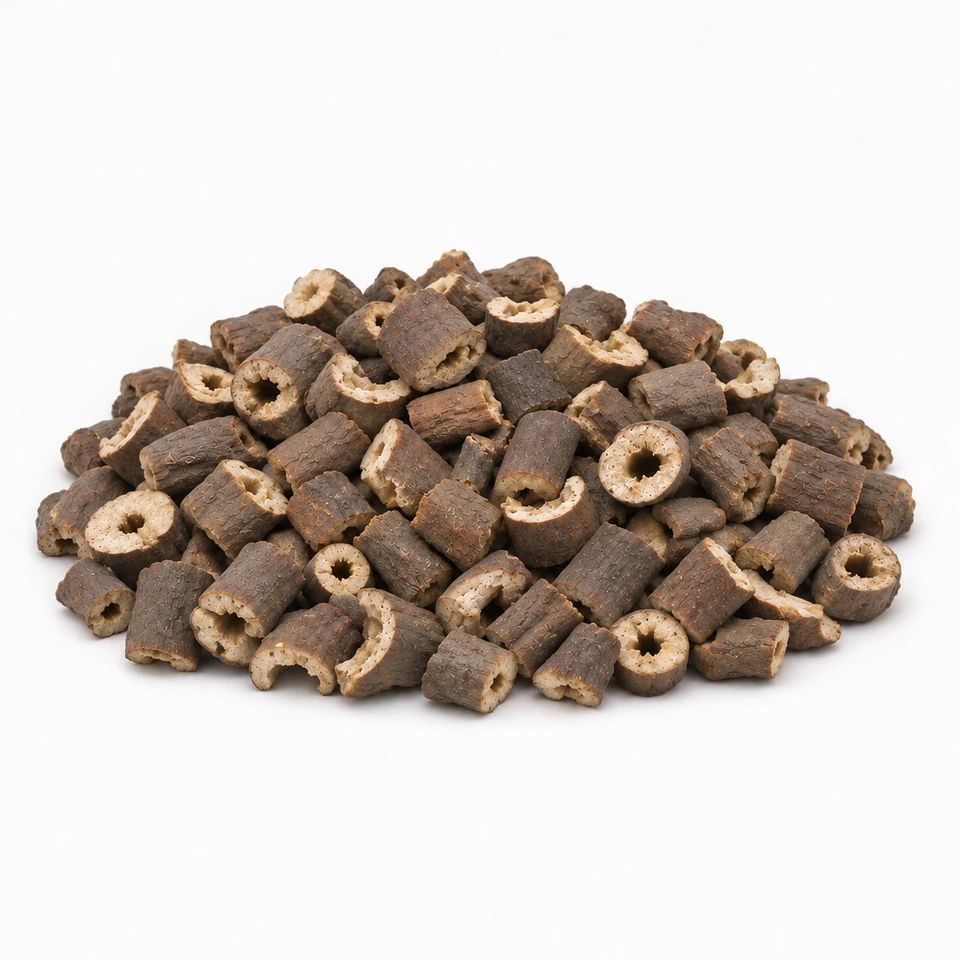
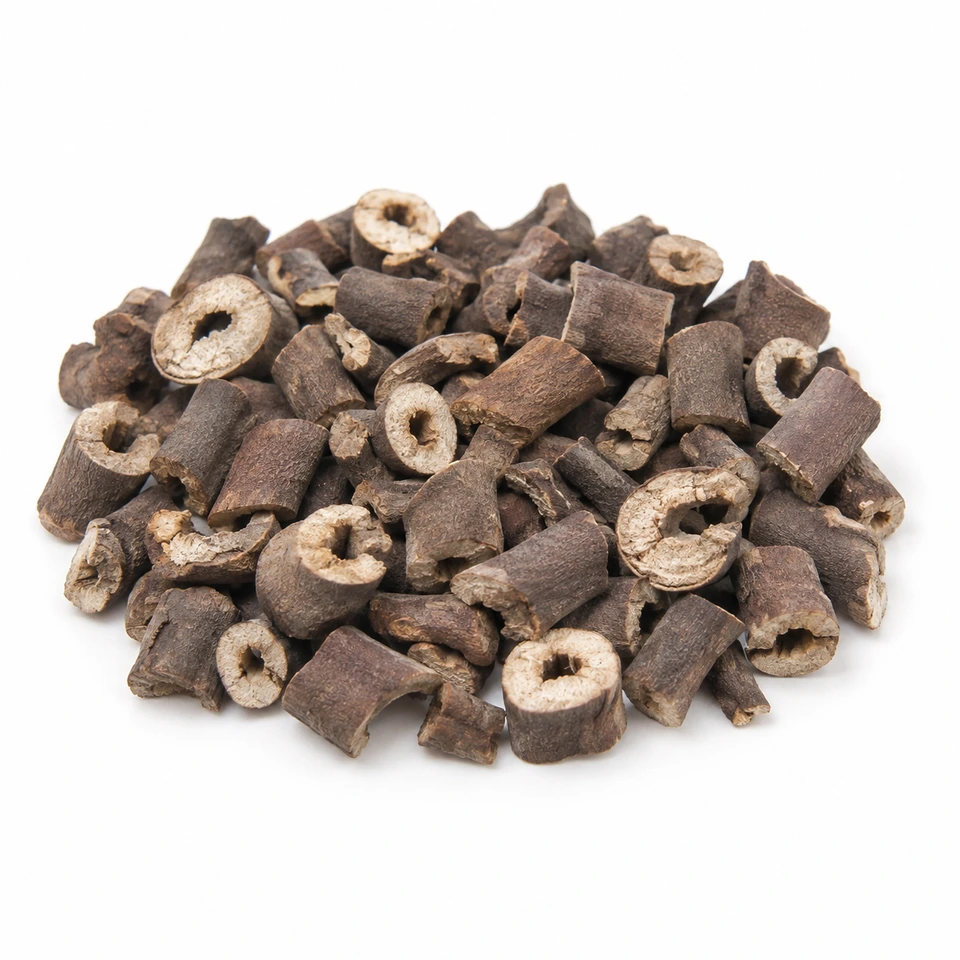
Replace moutan bark AA with approved natural larger-piece photograph

diff --git a/app/ProductImage.js b/app/ProductImage.js
@@ -8,7 +8,7 @@ export default function ProductImage({ src, name, origin }) {
   const visible = Boolean(src) && !failed;
   const reference = src?.startsWith("/products-reference/");
   const localPhoto = reference || src?.startsWith("/products/");
-  const imageSrc = localPhoto ? `${src}${src.includes("?") ? "&" : "?"}photo=${src.split("?")[0] === "/products-reference/uniform-20261029/herb-001.webp" ? "gaja-20261117-v1" : src.split("?")[0] === "/products-reference/uniform-20261029/herb-003-v2.webp" ? "galgeun-20261117-v1" : src.split("?")[0] === "/products-reference/uniform-20261029/herb-004.webp" ? "galhwa-20261118-v1" : src.split("?")[0] === "/products-reference/uniform-20261029/herb-005.webp" ? "gamguk-20261118-v1" : src.split("?")[0] === "/products-reference/uniform-20261029/gamin-geomin.webp" ? "geomin-20261118-v1" : src.split("?")[0] === "/products-reference/uniform-20261029/herb-007.webp" ? "licorice-20261118-v1" : src.split("?")[0] === "/products-reference/uniform-20261029/gamcho-yangwai1-20261118.webp" ? "yangwai1-20261118-v3" : src.split("?")[0] === "/products-reference/uniform-20261029/gamcho-roasted-v2.webp" ? "roasted-20261118-v2" : src.split("?")[0].startsWith("/products-reference/uniform-20261029/gamcho-roasted-") ? "roasted-20261118-v2" : src.split("?")[0] === "/products-reference/uniform-20261029/herb-008.webp" ? "ganghwal-20261118-v1" : src.split("?")[0] === "/products-reference/uniform-20261029/herb-009-v2.webp" ? "jamganghwal-20261118-v3" : src.split("?")[0] === "/products-reference/uniform-20261029/herb-010.webp" ? "ganghwang-20261118-v2" : src.split("?")[0] === "/products-reference/uniform-20261029/herb-011.webp" ? "gaeja-20261118-v1" : src.split("?")[0] === "/products-reference/uniform-20261029/herb-012.webp" ? "ginger-20261118-v3" : src.split("?")[0] === "/products-reference/uniform-20261029/herb-013-v2.webp" ? "ginger-roasted-20261118-v1" : src.split("?")[0] === "/products-reference/uniform-20261029/ginger-domestic-20261118.webp" ? "ginger-domestic-20261118-v2" : src.split("?")[0] === "/products-reference/uniform-20261029/herb-014-v3.webp" ? "chestnut-20261118-v1" : src.split("?")[0] === "/products-reference/uniform-20261029/herb-015-v2.webp" ? "pharbitis-20261118-v1" : src.split("?")[0] === "/products-reference/uniform-20261029/herb-016.webp" ? "cassia-20261118-v1" : src.split("?")[0] === "/products-reference/uniform-20261029/herb-017-v2.webp" ? "gizzard-20261118-v1" : src.split("?")[0] === "/products-reference/uniform-20261029/herb-018-v2.webp" ? "gizzard-roasted-20261118-v1" : src.split("?")[0] === "/products-reference/uniform-20261029/herb-019-v3.webp" ? "twig-20261118-v1" : src.split("?")[0] === "/products-reference/uniform-20261029/herb-020.webp" ? "vine-20261118-v1" : src.split("?")[0] === "/products-reference/uniform-20261029/herb-021.webp" ? "galangal-20261118-v1" : src.split("?")[0] === "/products-reference/uniform-20261029/gobon-domestic-20261118.webp" ? "gobon-dom-20261118-v1" : src.split("?")[0] === "/products-reference/uniform-20261029/herb-022.webp" ? "gobon-imp-20261118-v1" : src.split("?")[0] === "/products-reference/uniform-20261029/herb-023-v2.webp" ? "sophora-20261118-v1" : src.split("?")[0] === "/products-reference/uniform-20261029/herb-024-v2.webp" ? "mistletoe-20261118-v1" : src.split("?")[0] === "/products-reference/uniform-20261029/herb-025.webp" ? "rice-20261118-v1" : src.split("?")[0] === "/products-reference/uniform-20261029/herb-026-v2.webp" ? "drynaria-20261118-v1" : src.split("?")[0] === "/products-reference/uniform-20261029/herb-027-v2.webp" ? "fruit-20261118-v1" : src.split("?")[0] === "/products-reference/uniform-20261029/gwakhyang.webp" ? "agastache-20261118-v1" : src.split("?")[0] === "/products-reference/uniform-20261029/herb-028-v2.webp" ? "coltsfoot-20261118-v1" : src.split("?")[0] === "/products-reference/uniform-20261029/gwallugeun-domestic-20261118.webp" ? "trich-dom-20261118-v1" : src.split("?")[0] === "/products-reference/uniform-20261029/herb-029-v2.webp" ? "trich-imp-20261118-v1" : src.split("?")[0] === "/products-reference/uniform-20261029/herb-031.webp" ? "seed-whole-20261119-v1" : src.split("?")[0] === "/products-reference/uniform-20261029/herb-030-v2.webp" ? "seed-coarse-20261119-v1" : src.split("?")[0] === "/products-reference/uniform-20261029/herb-032-v3.webp" ? "patchouli-20261119-v1" : src.split("?")[0] === "/products-reference/uniform-20261029/herb-033-v3.webp" ? "sophorabud-20261119-v1" : src.split("?")[0] === "/products-reference/uniform-20261029/gugija-domestic-20261119.webp" ? "goji-dom-20261119-v1" : src.split("?")[0] === "/products-reference/uniform-20261029/gugija-large-20261119.webp" ? "goji-large-20261119-v1" : src.split("?")[0] === "/products-reference/uniform-20261029/gugija-premium-20261119.webp" ? "goji-premium-20261119-v2" : src.split("?")[0] === "/products-reference/uniform-20261029/herb-035-v2.webp" ? "dianthus-20261119-v1" : src.split("?")[0] === "/products-reference/uniform-20261029/herb-036.webp" ? "chiveseed-20261119-v1" : src.split("?")[0] === "/products-reference/uniform-20261029/gujeolcho.webp" ? "gujeolcho-20261119-v1" : src.split("?")[0] === "/products-reference/uniform-20261029/herb-037-v2.webp" ? "cibotium-20261119-v1" : src.split("?")[0] === "/products-reference/uniform-20261029/herb-038.webp" ? "plastron-20261119-v1" : src.split("?")[0] === "/products-reference/uniform-20261029/herb-040-v2.webp" ? "rosefruit-20261119-v1" : src.split("?")[0] === "/products-reference/uniform-20261029/herb-041-v3.webp" ? "honeysuckle-20261119-v1" : src.split("?")[0] === "/products-reference/uniform-20261029/herb-042.webp" ? "lysimachia-20261119-v1" : src.split("?")[0] === "/products-reference/uniform-20261029/gilgyeong-domestic-20261119.webp" ? "platy-dom-20261119-v1" : src.split("?")[0] === "/products-reference/uniform-20261029/herb-043-v2.webp" ? "platy-imp-20261119-v1" : src.split("?")[0] === "/products-reference/uniform-20261029/herb-044-v2.webp" ? "radish-20261119-v2" : src.split("?")[0] === "/products-reference/uniform-20261029/herb-048-v2.webp" ? "radish-coarse-20261119-v1" : src.split("?")[0] === "/products-reference/uniform-20261029/herb-046-v2.webp" ? "arisaema-20261119-v1" : src.split("?")[0] === "/products-reference/uniform-20261029/herb-047-v2.webp" ? "arisaema-alum-20261119-v1" : src.split("?")[0] === "/products-reference/uniform-20261029/herb-045-v2.webp" ? "vinecut-20261119-v1" : src.split("?")[0] === "/products-reference/uniform-20261029/herb-049-v2.webp" ? "radish-roasted-20261119-v2" : src.split("?")[0] === "/products-reference/uniform-20261029/herb-050-v2.webp" ? "reed-20261119-v1" : src.split("?")[0] === "/products-reference/uniform-20261029/herb-051-v2.webp" ? "antler-package-20261119-v1" : src.split("?")[0] === "/products-reference/uniform-20261029/herb-052-v2.webp" ? "salvia-20261119-v1" : src.split("?")[0] === "/products-reference/uniform-20261029/danggui-domestic-20261119.webp" ? "angel-dom-20261119-v2" : src.split("?")[0] === "/products-reference/uniform-20261029/herb-056-v2.webp" ? "angel-tail-20261119-v1" : src.split("?")[0] === "/products-reference/uniform-20261029/herb-054-v2.webp" ? "angel-imp-20261119-v1" : src.split("?")[0] === "/products-reference/uniform-20261029/herb-057.webp" ? "angel-body-20261119-v2" : src.split("?")[0] === "/products-reference/uniform-20261029/damdusi-package-20261119.webp" ? "soypackage-20261119-v1" : src.split("?")[0] === "/products-reference/uniform-20261029/herb-058-v2.webp" ? "codonopsis-20261119-v1" : src.split("?")[0] === "/products-reference/uniform-20261029/herb-059-v2.webp" ? "arecahusk-20261119-v1" : src.split("?")[0] === "/products-reference/uniform-20261029/herb-060.webp" ? "isatisleaf-20261119-v1" : src.split("?")[0] === "/products-reference/uniform-20261029/herb-063.webp" ? "jujubeslice-20261119-v1" : src.split("?")[0] === "/products-reference/uniform-20261029/herb-064.webp" ? "rhubarb-20261119-v1" : src.split("?")[0] === "/products-reference/uniform-20261029/herb-067-v2.webp" ? "rhubarb-steamed-20261119-v1" : src.split("?")[0] === "/products-reference/uniform-20261029/herb-070-v2.webp" ? "peach-cut-20261119-v1" : src.split("?")[0] === "/products-reference/uniform-20261029/herb-065.webp" ? "rhubarb-longleaf-20261119-v1" : src.split("?")[0] === "/products-reference/uniform-20261029/herb-250.webp" ? "rhubarb-small-20261119-v1" : src.split("?")[0] === "/products-reference/uniform-20261029/herb-066.webp" ? "rhubarb-small-20261119-v1" : src.split("?")[0] === "/products-reference/uniform-20261029/herb-069.webp" ? "peach-whole-20261119-v1" : src.split("?")[0] === "/products-reference/uniform-20261029/herb-072-v2.webp" ? "donggwaja-20261119-v1" : src.split("?")[0] === "/products-reference/uniform-20261029/herb-075.webp" ? "duchung-20261119-v1" : src.split("?")[0] === "/products-reference/uniform-20261029/herb-076-20261027.webp" ? "duchung-salt-20261119-v1" : src.split("?")[0] === "/products-reference/uniform-20261029/herb-077-20261027.webp" ? "deungpi-20261119-v1" : src.split("?")[0] === "/products-reference/uniform-20261029/dokhwal-domestic-20261120.webp" ? "dokhwal-dom-20261120-v1" : src.split("?")[0] === "/products-reference/uniform-20261029/dokhwal-import-20261120.webp" ? "dokhwal-imp-20261120-v1" : src.split("?")[0] === "/products-reference/uniform-20261029/deungsimcho-20261120.webp" ? "deungsimcho-20261120" : src.split("?")[0] === "/products-reference/uniform-20261029/dokhwal-import-20261120-v2.webp" ? "dokhwal-import-20261120-v2" : src.split("?")[0] === "/products-reference/uniform-20261029/herb-078-20261027.webp" ? "rowan-20261120-v1" : src.split("?")[0] === "/products-reference/uniform-20261029/herb-079-20261029-revised.webp" ? "ephedra-20261120-v1" : src.split("?")[0] === "/products-reference/uniform-20261029/herb-080-20261027.webp" ? "ephedra-processed-20261120-v1" : src.split("?")[0] === "/products-reference/uniform-20261029/herb-081-20261027.webp" ? "vitex-20261120-v1" : src.split("?")[0] === "/products-reference/uniform-20261029/herb-082-20261027.webp" ? "mirabilite-20261120-v1" : src.split("?")[0] === "/products-reference/uniform-20261029/maekmundong-domestic-20261120-v2.webp" ? "maekmundong-domestic-20261120-v2" : src.split("?")[0] === "/products-reference/uniform-20261029/maekmundong-import-20261120.webp" ? "maekmundong-import-20261120-v1" : src.split("?")[0] === "/products-reference/uniform-20261029/maekmundong-regular-20261120.webp" ? "maekmundong-regular-20261120-v1" : src.split("?")[0] === "/products-reference/uniform-20261029/herb-084.webp" ? "malt-package-20261120-v1" : src.split("?")[0] === "/products-reference/uniform-20261029/memil-gyomaek-v2.webp" ? "buckwheat-husk-20261120-v1" : src.split("?")[0] === "/products-reference/uniform-20261029/herb-086-20261027.webp" ? "quince-20261120-v1" : src.split("?")[0] === "/products-reference/uniform-20261029/herb-087.webp" ? "cogonroot-20261120-v1" : src.split("?")[0] === "/products-reference/uniform-20261029/herb-088.webp" ? "oystershell-20261120-v1" : src.split("?")[0] === "/products-reference/uniform-20261029/herb-089.webp" ? "oyster-powder-package-20261120-v1" : src.split("?")[0] === "/products-reference/uniform-20261029/mokdanpi-aa-20261120.webp" ? "mokdanpi-aa-20261120-v1" : src.split("?")[0] === "/products-reference/uniform-20261029/mokdanpi-large-20261120.webp" ? "mokdanpi-large-20261120-v1" : src.split("?")[0] === "/products-reference/uniform-20261029/herb-091-20261029-revised.webp" ? "horsetail-20261120-v1" : src.split("?")[0] === "/products-reference/uniform-20261029/herb-092-20261027.webp" ? "akebia-20261120-v1" : src.split("?")[0] === "/products-reference/uniform-20261029/herb-093-20261027.webp" ? "costus-20261120-v1" : src.split("?")[0] === "/products-reference/uniform-20261029/herb-094-20261027.webp" ? "myrrh-20261120-v1" : "linen-20261116-v2"}` : src;
+  const imageSrc = localPhoto ? `${src}${src.includes("?") ? "&" : "?"}photo=${src.split("?")[0] === "/products-reference/uniform-20261029/herb-001.webp" ? "gaja-20261117-v1" : src.split("?")[0] === "/products-reference/uniform-20261029/herb-003-v2.webp" ? "galgeun-20261117-v1" : src.split("?")[0] === "/products-reference/uniform-20261029/herb-004.webp" ? "galhwa-20261118-v1" : src.split("?")[0] === "/products-reference/uniform-20261029/herb-005.webp" ? "gamguk-20261118-v1" : src.split("?")[0] === "/products-reference/uniform-20261029/gamin-geomin.webp" ? "geomin-20261118-v1" : src.split("?")[0] === "/products-reference/uniform-20261029/herb-007.webp" ? "licorice-20261118-v1" : src.split("?")[0] === "/products-reference/uniform-20261029/gamcho-yangwai1-20261118.webp" ? "yangwai1-20261118-v3" : src.split("?")[0] === "/products-reference/uniform-20261029/gamcho-roasted-v2.webp" ? "roasted-20261118-v2" : src.split("?")[0].startsWith("/products-reference/uniform-20261029/gamcho-roasted-") ? "roasted-20261118-v2" : src.split("?")[0] === "/products-reference/uniform-20261029/herb-008.webp" ? "ganghwal-20261118-v1" : src.split("?")[0] === "/products-reference/uniform-20261029/herb-009-v2.webp" ? "jamganghwal-20261118-v3" : src.split("?")[0] === "/products-reference/uniform-20261029/herb-010.webp" ? "ganghwang-20261118-v2" : src.split("?")[0] === "/products-reference/uniform-20261029/herb-011.webp" ? "gaeja-20261118-v1" : src.split("?")[0] === "/products-reference/uniform-20261029/herb-012.webp" ? "ginger-20261118-v3" : src.split("?")[0] === "/products-reference/uniform-20261029/herb-013-v2.webp" ? "ginger-roasted-20261118-v1" : src.split("?")[0] === "/products-reference/uniform-20261029/ginger-domestic-20261118.webp" ? "ginger-domestic-20261118-v2" : src.split("?")[0] === "/products-reference/uniform-20261029/herb-014-v3.webp" ? "chestnut-20261118-v1" : src.split("?")[0] === "/products-reference/uniform-20261029/herb-015-v2.webp" ? "pharbitis-20261118-v1" : src.split("?")[0] === "/products-reference/uniform-20261029/herb-016.webp" ? "cassia-20261118-v1" : src.split("?")[0] === "/products-reference/uniform-20261029/herb-017-v2.webp" ? "gizzard-20261118-v1" : src.split("?")[0] === "/products-reference/uniform-20261029/herb-018-v2.webp" ? "gizzard-roasted-20261118-v1" : src.split("?")[0] === "/products-reference/uniform-20261029/herb-019-v3.webp" ? "twig-20261118-v1" : src.split("?")[0] === "/products-reference/uniform-20261029/herb-020.webp" ? "vine-20261118-v1" : src.split("?")[0] === "/products-reference/uniform-20261029/herb-021.webp" ? "galangal-20261118-v1" : src.split("?")[0] === "/products-reference/uniform-20261029/gobon-domestic-20261118.webp" ? "gobon-dom-20261118-v1" : src.split("?")[0] === "/products-reference/uniform-20261029/herb-022.webp" ? "gobon-imp-20261118-v1" : src.split("?")[0] === "/products-reference/uniform-20261029/herb-023-v2.webp" ? "sophora-20261118-v1" : src.split("?")[0] === "/products-reference/uniform-20261029/herb-024-v2.webp" ? "mistletoe-20261118-v1" : src.split("?")[0] === "/products-reference/uniform-20261029/herb-025.webp" ? "rice-20261118-v1" : src.split("?")[0] === "/products-reference/uniform-20261029/herb-026-v2.webp" ? "drynaria-20261118-v1" : src.split("?")[0] === "/products-reference/uniform-20261029/herb-027-v2.webp" ? "fruit-20261118-v1" : src.split("?")[0] === "/products-reference/uniform-20261029/gwakhyang.webp" ? "agastache-20261118-v1" : src.split("?")[0] === "/products-reference/uniform-20261029/herb-028-v2.webp" ? "coltsfoot-20261118-v1" : src.split("?")[0] === "/products-reference/uniform-20261029/gwallugeun-domestic-20261118.webp" ? "trich-dom-20261118-v1" : src.split("?")[0] === "/products-reference/uniform-20261029/herb-029-v2.webp" ? "trich-imp-20261118-v1" : src.split("?")[0] === "/products-reference/uniform-20261029/herb-031.webp" ? "seed-whole-20261119-v1" : src.split("?")[0] === "/products-reference/uniform-20261029/herb-030-v2.webp" ? "seed-coarse-20261119-v1" : src.split("?")[0] === "/products-reference/uniform-20261029/herb-032-v3.webp" ? "patchouli-20261119-v1" : src.split("?")[0] === "/products-reference/uniform-20261029/herb-033-v3.webp" ? "sophorabud-20261119-v1" : src.split("?")[0] === "/products-reference/uniform-20261029/gugija-domestic-20261119.webp" ? "goji-dom-20261119-v1" : src.split("?")[0] === "/products-reference/uniform-20261029/gugija-large-20261119.webp" ? "goji-large-20261119-v1" : src.split("?")[0] === "/products-reference/uniform-20261029/gugija-premium-20261119.webp" ? "goji-premium-20261119-v2" : src.split("?")[0] === "/products-reference/uniform-20261029/herb-035-v2.webp" ? "dianthus-20261119-v1" : src.split("?")[0] === "/products-reference/uniform-20261029/herb-036.webp" ? "chiveseed-20261119-v1" : src.split("?")[0] === "/products-reference/uniform-20261029/gujeolcho.webp" ? "gujeolcho-20261119-v1" : src.split("?")[0] === "/products-reference/uniform-20261029/herb-037-v2.webp" ? "cibotium-20261119-v1" : src.split("?")[0] === "/products-reference/uniform-20261029/herb-038.webp" ? "plastron-20261119-v1" : src.split("?")[0] === "/products-reference/uniform-20261029/herb-040-v2.webp" ? "rosefruit-20261119-v1" : src.split("?")[0] === "/products-reference/uniform-20261029/herb-041-v3.webp" ? "honeysuckle-20261119-v1" : src.split("?")[0] === "/products-reference/uniform-20261029/herb-042.webp" ? "lysimachia-20261119-v1" : src.split("?")[0] === "/products-reference/uniform-20261029/gilgyeong-domestic-20261119.webp" ? "platy-dom-20261119-v1" : src.split("?")[0] === "/products-reference/uniform-20261029/herb-043-v2.webp" ? "platy-imp-20261119-v1" : src.split("?")[0] === "/products-reference/uniform-20261029/herb-044-v2.webp" ? "radish-20261119-v2" : src.split("?")[0] === "/products-reference/uniform-20261029/herb-048-v2.webp" ? "radish-coarse-20261119-v1" : src.split("?")[0] === "/products-reference/uniform-20261029/herb-046-v2.webp" ? "arisaema-20261119-v1" : src.split("?")[0] === "/products-reference/uniform-20261029/herb-047-v2.webp" ? "arisaema-alum-20261119-v1" : src.split("?")[0] === "/products-reference/uniform-20261029/herb-045-v2.webp" ? "vinecut-20261119-v1" : src.split("?")[0] === "/products-reference/uniform-20261029/herb-049-v2.webp" ? "radish-roasted-20261119-v2" : src.split("?")[0] === "/products-reference/uniform-20261029/herb-050-v2.webp" ? "reed-20261119-v1" : src.split("?")[0] === "/products-reference/uniform-20261029/herb-051-v2.webp" ? "antler-package-20261119-v1" : src.split("?")[0] === "/products-reference/uniform-20261029/herb-052-v2.webp" ? "salvia-20261119-v1" : src.split("?")[0] === "/products-reference/uniform-20261029/danggui-domestic-20261119.webp" ? "angel-dom-20261119-v2" : src.split("?")[0] === "/products-reference/uniform-20261029/herb-056-v2.webp" ? "angel-tail-20261119-v1" : src.split("?")[0] === "/products-reference/uniform-20261029/herb-054-v2.webp" ? "angel-imp-20261119-v1" : src.split("?")[0] === "/products-reference/uniform-20261029/herb-057.webp" ? "angel-body-20261119-v2" : src.split("?")[0] === "/products-reference/uniform-20261029/damdusi-package-20261119.webp" ? "soypackage-20261119-v1" : src.split("?")[0] === "/products-reference/uniform-20261029/herb-058-v2.webp" ? "codonopsis-20261119-v1" : src.split("?")[0] === "/products-reference/uniform-20261029/herb-059-v2.webp" ? "arecahusk-20261119-v1" : src.split("?")[0] === "/products-reference/uniform-20261029/herb-060.webp" ? "isatisleaf-20261119-v1" : src.split("?")[0] === "/products-reference/uniform-20261029/herb-063.webp" ? "jujubeslice-20261119-v1" : src.split("?")[0] === "/products-reference/uniform-20261029/herb-064.webp" ? "rhubarb-20261119-v1" : src.split("?")[0] === "/products-reference/uniform-20261029/herb-067-v2.webp" ? "rhubarb-steamed-20261119-v1" : src.split("?")[0] === "/products-reference/uniform-20261029/herb-070-v2.webp" ? "peach-cut-20261119-v1" : src.split("?")[0] === "/products-reference/uniform-20261029/herb-065.webp" ? "rhubarb-longleaf-20261119-v1" : src.split("?")[0] === "/products-reference/uniform-20261029/herb-250.webp" ? "rhubarb-small-20261119-v1" : src.split("?")[0] === "/products-reference/uniform-20261029/herb-066.webp" ? "rhubarb-small-20261119-v1" : src.split("?")[0] === "/products-reference/uniform-20261029/herb-069.webp" ? "peach-whole-20261119-v1" : src.split("?")[0] === "/products-reference/uniform-20261029/herb-072-v2.webp" ? "donggwaja-20261119-v1" : src.split("?")[0] === "/products-reference/uniform-20261029/herb-075.webp" ? "duchung-20261119-v1" : src.split("?")[0] === "/products-reference/uniform-20261029/herb-076-20261027.webp" ? "duchung-salt-20261119-v1" : src.split("?")[0] === "/products-reference/uniform-20261029/herb-077-20261027.webp" ? "deungpi-20261119-v1" : src.split("?")[0] === "/products-reference/uniform-20261029/dokhwal-domestic-20261120.webp" ? "dokhwal-dom-20261120-v1" : src.split("?")[0] === "/products-reference/uniform-20261029/dokhwal-import-20261120.webp" ? "dokhwal-imp-20261120-v1" : src.split("?")[0] === "/products-reference/uniform-20261029/deungsimcho-20261120.webp" ? "deungsimcho-20261120" : src.split("?")[0] === "/products-reference/uniform-20261029/dokhwal-import-20261120-v2.webp" ? "dokhwal-import-20261120-v2" : src.split("?")[0] === "/products-reference/uniform-20261029/herb-078-20261027.webp" ? "rowan-20261120-v1" : src.split("?")[0] === "/products-reference/uniform-20261029/herb-079-20261029-revised.webp" ? "ephedra-20261120-v1" : src.split("?")[0] === "/products-reference/uniform-20261029/herb-080-20261027.webp" ? "ephedra-processed-20261120-v1" : src.split("?")[0] === "/products-reference/uniform-20261029/herb-081-20261027.webp" ? "vitex-20261120-v1" : src.split("?")[0] === "/products-reference/uniform-20261029/herb-082-20261027.webp" ? "mirabilite-20261120-v1" : src.split("?")[0] === "/products-reference/uniform-20261029/maekmundong-domestic-20261120-v2.webp" ? "maekmundong-domestic-20261120-v2" : src.split("?")[0] === "/products-reference/uniform-20261029/maekmundong-import-20261120.webp" ? "maekmundong-import-20261120-v1" : src.split("?")[0] === "/products-reference/uniform-20261029/maekmundong-regular-20261120.webp" ? "maekmundong-regular-20261120-v1" : src.split("?")[0] === "/products-reference/uniform-20261029/herb-084.webp" ? "malt-package-20261120-v1" : src.split("?")[0] === "/products-reference/uniform-20261029/memil-gyomaek-v2.webp" ? "buckwheat-husk-20261120-v1" : src.split("?")[0] === "/products-reference/uniform-20261029/herb-086-20261027.webp" ? "quince-20261120-v1" : src.split("?")[0] === "/products-reference/uniform-20261029/herb-087.webp" ? "cogonroot-20261120-v1" : src.split("?")[0] === "/products-reference/uniform-20261029/herb-088.webp" ? "oystershell-20261120-v1" : src.split("?")[0] === "/products-reference/uniform-20261029/herb-089.webp" ? "oyster-powder-package-20261120-v1" : src.split("?")[0] === "/products-reference/uniform-20261029/mokdanpi-aa-20261120.webp" ? "mokdanpi-aa-20261120-v2" : src.split("?")[0] === "/products-reference/uniform-20261029/mokdanpi-large-20261120.webp" ? "mokdanpi-large-20261120-v1" : src.split("?")[0] === "/products-reference/uniform-20261029/herb-091-20261029-revised.webp" ? "horsetail-20261120-v1" : src.split("?")[0] === "/products-reference/uniform-20261029/herb-092-20261027.webp" ? "akebia-20261120-v1" : src.split("?")[0] === "/products-reference/uniform-20261029/herb-093-20261027.webp" ? "costus-20261120-v1" : src.split("?")[0] === "/products-reference/uniform-20261029/herb-094-20261027.webp" ? "myrrh-20261120-v1" : "linen-20261116-v2"}` : src;
   const domesticGalgeun = /^갈근(?:\s*\((?:사각|강원문막)\))?$/.test(name || "")
     && /국내산|국산|한국|대한민국/.test(origin || "")
     && src?.split("?")[0] === "/products-reference/uniform-20261029/herb-003-v2.webp";
